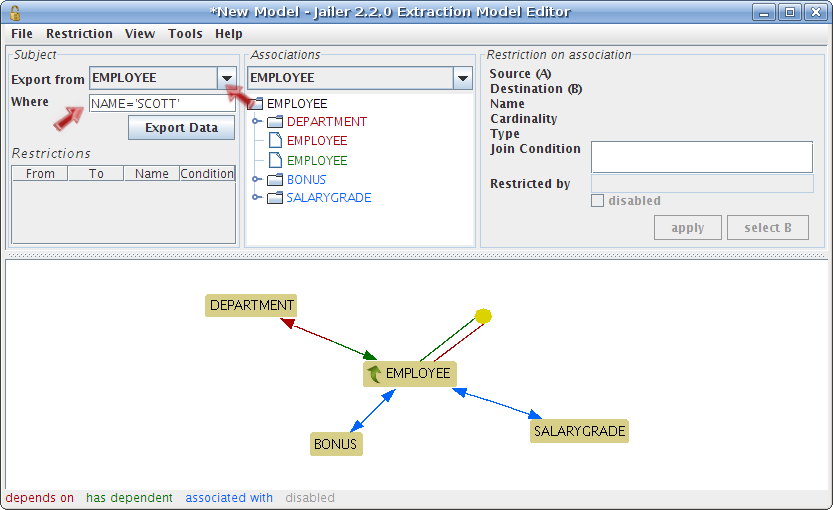
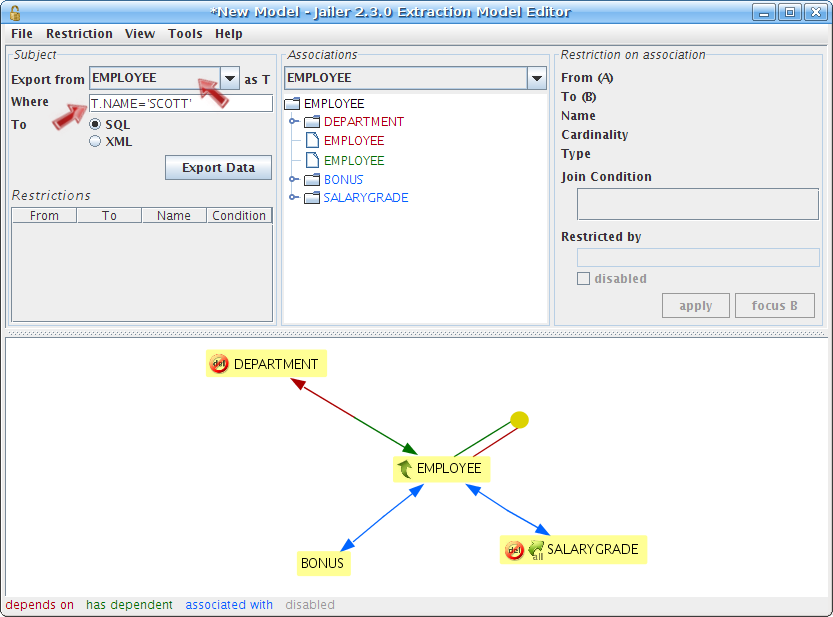
XML tutorial
git-svn-id: http://svn.code.sf.net/p/jailer/code/trunk@389 3dd849cd-670e-4645-a7cd-dd197c8d0e81

diff --git a/doc/web/exporting-data.htm b/doc/web/exporting-data.htm
@@ -1,20 +1,15 @@
 <!DOCTYPE HTML PUBLIC "-//W3C//DTD HTML 4.01 Transitional//EN">
-<html>
-<head>
-  <title>Jailer</title>
-  <meta http-equiv="Content-Type" content="text/html; charset=utf-8">
+<html><head>
+  
+  <title>Jailer</title><meta http-equiv="Content-Type" content="text/html; charset=utf-8">
   <meta name="description" content="Data Export Tool">
   <link rel="shortcut icon" href="favicon.ico">
-  <meta name="keywords"
- content="data export referential integrity java jdbc dbms">
-  <link rel="stylesheet" type="text/css"
- href="exporting-data-Dateien/styles.css">
-</head>
+  <meta name="keywords" content="data export referential integrity java jdbc dbms">
+  <link rel="stylesheet" type="text/css" href="exporting-data-Dateien/styles.css"></head>
+
 <body left-margin="0" top-margin="0">
 <div align="left">
-<table
- style="text-align: left; position: absolute; left: 0pt; top: 0pt;"
- border="0" cellpadding="0" cellspacing="0" height="407" width="100%">
+<table style="text-align: left; position: absolute; left: 0pt; top: 0pt;" border="0" cellpadding="0" cellspacing="0" height="407" width="100%">
   <tbody>
     <tr>
       <td colspan="2" class="bannerbackground" height="33" width="100%">
@@ -23,10 +18,7 @@
           <tr>
             <td><img src="exporting-data-Dateien/logo.png" hspace="10"></td>
             <td class="slogan" width="100%">Model-based&nbsp;Data&nbsp;Export</td>
-            <td style="text-align: right; width: 100%;"><a
- href="http://sourceforge.net/projects/jailer/"><img
- src="http://sflogo.sourceforge.net/sflogo.php?group_id=197260&amp;type=1"
- alt="SourceForge.net Logo" style="border: 0px solid ;"></a></td>
+            <td style="text-align: right; width: 100%;"><a href="http://sourceforge.net/projects/jailer/"><img src="http://sflogo.sourceforge.net/sflogo.php?group_id=197260&amp;type=1" alt="SourceForge.net Logo" style="border: 0px solid ;"></a></td>
           </tr>
         </tbody>
       </table>
@@ -34,16 +26,9 @@
     </tr>
     <tr>
       <td colspan="2" class="nav1background" height="33" width="100%">&nbsp;
-      <b><font color="#ffffff"><a href="home.htm" target="_self"
- class="tlink">Home</a> &nbsp;&nbsp;&nbsp; <a href="quicktour.htm"
- target="_self" class="tlink">Documentation</a> &nbsp;&nbsp;&nbsp; <a
- href="exporting-data.htm" target="_self" class="tlinkA">Tutorial</a>
-&nbsp;&nbsp;&nbsp; <a
- href="http://sourceforge.net/forum/?group_id=197260" target="_self"
- class="tlink">Forum</a>
-&nbsp;&nbsp;&nbsp; <a
- href="http://sourceforge.net/project/showfiles.php?group_id=197260"
- target="_self" class="tlink">Download</a>
+      <b><font color="#ffffff"><a href="home.htm" target="_self" class="tlink">Home</a> &nbsp;&nbsp;&nbsp; <a href="quicktour.htm" target="_self" class="tlink">Documentation</a> &nbsp;&nbsp;&nbsp; <a href="exporting-data.htm" target="_self" class="tlinkA">Tutorial</a>
+&nbsp;&nbsp;&nbsp; <a href="http://sourceforge.net/forum/?group_id=197260" target="_self" class="tlink">Forum</a>
+&nbsp;&nbsp;&nbsp; <a href="http://sourceforge.net/project/showfiles.php?group_id=197260" target="_self" class="tlink">Download</a>
 &nbsp;&nbsp;&nbsp; &nbsp;&nbsp;&nbsp;</font></b></td>
     </tr>
     <tr>
@@ -77,19 +62,15 @@ Data</a></li>
       <table border="0" cellpadding="5" cellspacing="0" width="100%">
         <tbody>
           <tr>
-            <td class="content2background"><img
- style="width: 160px; height: 1px;" alt=""
- src="architecture-Dateien/vgradp.gif"></td>
+            <td class="content2background"><img style="width: 160px; height: 1px;" alt="" src="architecture-Dateien/vgradp.gif"></td>
           </tr>
         </tbody>
       </table>
       <p>&nbsp;</p>
       </td>
-      <td class="contentbackground" height="418" valign="top"
- width="86%">
+      <td class="contentbackground" height="418" valign="top" width="86%">
       <div align="right">
-      <table border="0" cellpadding="0" cellspacing="0" height="542"
- width="98%">
+      <table border="0" cellpadding="0" cellspacing="0" height="542" width="98%">
         <tbody>
           <tr>
             <td class="contentbackground" height="21" width="100%"> <br>
@@ -103,25 +84,13 @@ of rows from relational databases.<br>
             <br>
             <h4>Step 1. Setup the database<br>
             </h4>
-            <p>Create a new database schema and execute <a
- href="scott-tiger.sql.html"><img
- style="border: 0px solid ; width: 13px; height: 13px;"
- src="exporting-data-Dateien/arrow.gif" hspace="4"><big><span
- style="font-family: monospace;"><font size="4">script/scott-tiger.sql</font></span></big></a>.
+            <p>Create a new database schema and execute <a href="scott-tiger.sql.html"><img style="border: 0px solid ; width: 13px; height: 13px;" src="exporting-data-Dateien/arrow.gif" hspace="4"><big><span style="font-family: monospace;"><font size="4">script/scott-tiger.sql</font></span></big></a>.
 Make sure that the script runs successfully.<br>
             <br>
-            <table style="width: 100%; text-align: left;" border="0"
- cellpadding="0" cellspacing="0">
+            <table style="width: 100%; text-align: left;" border="0" cellpadding="0" cellspacing="0">
               <tbody>
                 <tr>
-                  <td
- style="vertical-align: top; background-color: rgb(230, 255, 230);"><span
- style="font-family: monospace;">$ db2 connect to wisser </span><span
- style="font-family: monospace;">user scott </span><span
- style="font-family: monospace;">using tiger<span
- style="font-family: mon;"><span style="font-style: italic;"></span></span></span><span
- style="font-family: monospace;"><span
- style="color: rgb(51, 51, 255); font-style: italic;"></span></span><br>
+                  <td style="vertical-align: top; background-color: rgb(230, 255, 230);"><span style="font-family: monospace;">$ db2 connect to wisser </span><span style="font-family: monospace;">user scott </span><span style="font-family: monospace;">using tiger<span style="font-family: mon;"><span style="font-style: italic;"></span></span></span><span style="font-family: monospace;"><span style="color: rgb(51, 51, 255); font-style: italic;"></span></span><br>
                   <span style="font-family: monospace;">$ db2 -tvf
 script/scott-tiger.sql<br>
                   </span><span style="font-family: monospace;"></span></td>
@@ -136,14 +105,10 @@ Start the Tool (<span style="font-family: monospace;">Jailer.exe </span>or
             <span style="font-family: monospace;">jailerGUI.bat</span>
 on windows platform)<br>
             <p>
-            <table style="width: 100%; text-align: left;" border="0"
- cellpadding="0" cellspacing="0">
+            <table style="width: 100%; text-align: left;" border="0" cellpadding="0" cellspacing="0">
               <tbody>
                 <tr>
-                  <td
- style="vertical-align: top; background-color: rgb(230, 255, 230);"><span
- style="font-family: monospace;">$ sh jailerGUI.sh</span><span
- style="font-family: monospace;"></span><br>
+                  <td style="vertical-align: top; background-color: rgb(230, 255, 230);"><span style="font-family: monospace;">$ sh jailerGUI.sh</span><span style="font-family: monospace;"></span><br>
                   </td>
                 </tr>
               </tbody>
@@ -167,9 +132,7 @@ Click on<span style="font-style: italic;"> Introspect DB</span><br>
 Select the setting for your DBMS and enter the connection parameter.<br>
 You may change the setting name if you like.<br>
             <br>
-Click on<span style="font-style: italic;"> Connect</span><big
- style="font-style: italic;"><span style="font-family: monospace;"></span></big><span
- style="font-style: italic;">.</span>
+Click on<span style="font-style: italic;"> Connect</span><big style="font-style: italic;"><span style="font-family: monospace;"></span></big><span style="font-style: italic;">.</span>
 Jailer finds four tables and two associations:<br>
             <br>
             <img src="exporting-data-Dateien/screen3.png"><br>
@@ -185,8 +148,7 @@ salary grade depending on his salary</li>
               <li>employees may receive bonuses</li>
             </ul>
             <p> <br>
-Add the definitions manually (<big><span style="font-family: monospace;"><span
- style="font-family: mon;"><span style="font-style: italic;">Add</span>-</span></span></big>Button
+Add the definitions manually (<big><span style="font-family: monospace;"><span style="font-family: mon;"><span style="font-style: italic;">Add</span>-</span></span></big>Button
 under <big><span style="font-family: monospace;"><font size="4">Associations</font></span></big>):<br>
             <br>
             <img src="exporting-data-Dateien/screen4.png"><br>
@@ -201,8 +163,7 @@ Note that Jailer now knows more about the data model than the DBMS.<br>
 Now lets try to export the employee named Scott. To do
 that we need an <span style="font-style: italic;">extraction-model</span>.<br>
 Select <big><span style="font-family: monospace;"><font size="4">EMPLOYEE</font></span></big>
-as table to extract from and type <span style="font-family: monospace;">NAME</span><big><span
- style="font-family: monospace;"><font size="4">='SCOTT'</font></span></big>
+as table to extract from and type <span style="font-family: monospace;">T.NAME</span><big><span style="font-family: monospace;"><font size="4">='SCOTT'</font></span></big>
 into the <span style="font-style: italic;">Where</span>-field:
             <p><img src="exporting-data-Dateien/screen8.png"><br>
             <br>
@@ -214,12 +175,10 @@ entities associated with these entities and so forth.<br>
             </p>
             <p>Export this set (<span style="font-style: italic;">Export
 Data</span>-Button
-or <span style="font-style: italic;">T</span><span
- style="font-style: italic;">ools-&gt;Export Data</span>).
+or <span style="font-style: italic;">T</span><span style="font-style: italic;">ools-&gt;Export Data</span>).
 Jailer first asks for a file name for the new extraction model. Call it
             <big><span style="font-family: monospace;"><font size="4">scott.csv.
-            </font></span></big>After that the <span
- style="font-style: italic;">Data Export</span> dialog appears:</p>
+            </font></span></big>After that the <span style="font-style: italic;">Data Export</span> dialog appears:</p>
             <br>
             <img src="exporting-data-Dateien/screen7.png"><br>
             <br>
@@ -234,10 +193,7 @@ is shown:<br>
             <img src="exporting-data-Dateien/screen9.png"><br>
             <br>
             <br>
-Jailer has generated a file <a href="scott.sql.html"><img
- style="border: 0px solid ; width: 13px; height: 13px;"
- src="exporting-data-Dateien/arrow.gif" hspace="4"><big><span
- style="font-family: monospace;"><font size="4">scott.sql</font></span></big></a>
+Jailer has generated a file <a href="scott.sql.html"><img style="border: 0px solid ; width: 13px; height: 13px;" src="exporting-data-Dateien/arrow.gif" hspace="4"><big><span style="font-family: monospace;"><font size="4">scott.sql</font></span></big></a>
 containing <big><span style="font-family: monospace;"><font size="4">Insert</font></span></big>-statements
 for Scott, for his boss, for the president and for scott's
 department and salary-grade.<br>
@@ -278,37 +234,25 @@ define some <span style="font-style: italic;">restrictions:</span><br>
             <br>
 The <span style="font-style: italic;">restriction-condition</span> is
 an extension of the associations join-condition (in
-SQL-syntax) for one direction of an association. <span
- style="font-style: italic;">disabled</span> (or <span
- style="font-style: italic;">false</span>) stands for an unsatisfiable
+SQL-syntax) for one direction of an association. <span style="font-style: italic;">disabled</span> (or <span style="font-style: italic;">false</span>) stands for an unsatisfiable
 condition.<br>
             <br>
             <br>
-            <span style="font-style: italic;"></span>Use <span
- style="font-style: italic;">Tools-&gt;Export Data</span> again and
+            <span style="font-style: italic;"></span>Use <span style="font-style: italic;">Tools-&gt;Export Data</span> again and
 look what Jailer now exports:<br>
             <br>
-            <table
- style="background-color: rgb(51, 102, 255); text-align: left;"
- border="0" cellpadding="2" cellspacing="0">
+            <table style="background-color: rgb(51, 102, 255); text-align: left;" border="0" cellpadding="2" cellspacing="0">
               <tbody>
                 <tr>
-                  <td
- style="vertical-align: top; height: 24px; background-color: rgb(202, 225, 235);"><big><span
- style="font-family: monospace;"><span style="font-weight: bold;"><span
- style="font-family: monospace;">scott.sql </span></span></span><span
- style="font-family: monospace;"></span></big><br>
+                  <td style="vertical-align: top; height: 24px; background-color: rgb(202, 225, 235);"><big><span style="font-family: monospace;"><span style="font-weight: bold;"><span style="font-family: monospace;">scott.sql </span></span></span><span style="font-family: monospace;"></span></big><br>
                   </td>
                 </tr>
               </tbody>
             </table>
-            <table style="width: 100%; text-align: left;" border="0"
- cellpadding="0" cellspacing="0">
+            <table style="width: 100%; text-align: left;" border="0" cellpadding="0" cellspacing="0">
               <tbody>
                 <tr>
-                  <td
- style="vertical-align: top; background-color: rgb(202, 225, 235);"
- colspan="2"><span style="font-family: monospace;">-- generated by
+                  <td style="vertical-align: top; background-color: rgb(202, 225, 235);" colspan="2"><span style="font-family: monospace;">-- generated by
 Jailer at Fri May 02 12:38:33 CEST 2008&nbsp; from wisser@desktop<br>
 --<br>
 -- extraction model:&nbsp; EMPLOYEE where NAME='SCOTT'
@@ -376,5 +320,4 @@ HIREDATE, SALARY, COMM, DEPTNO)<br>
   </tbody>
 </table>
 </div>
-</body>
-</html>
+</body></html>
